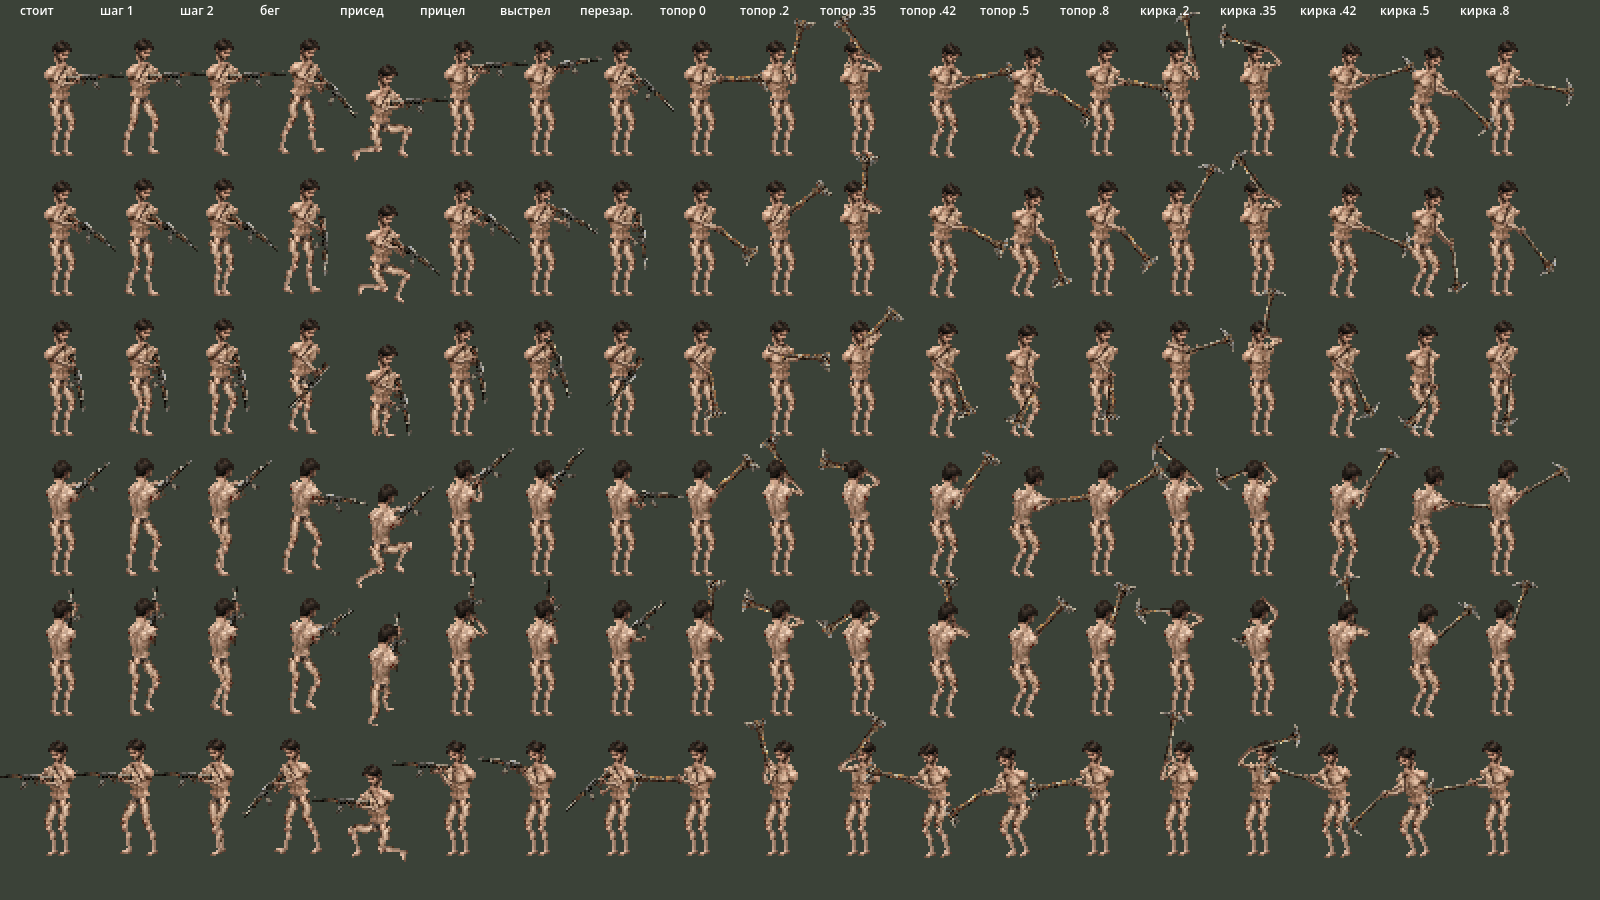
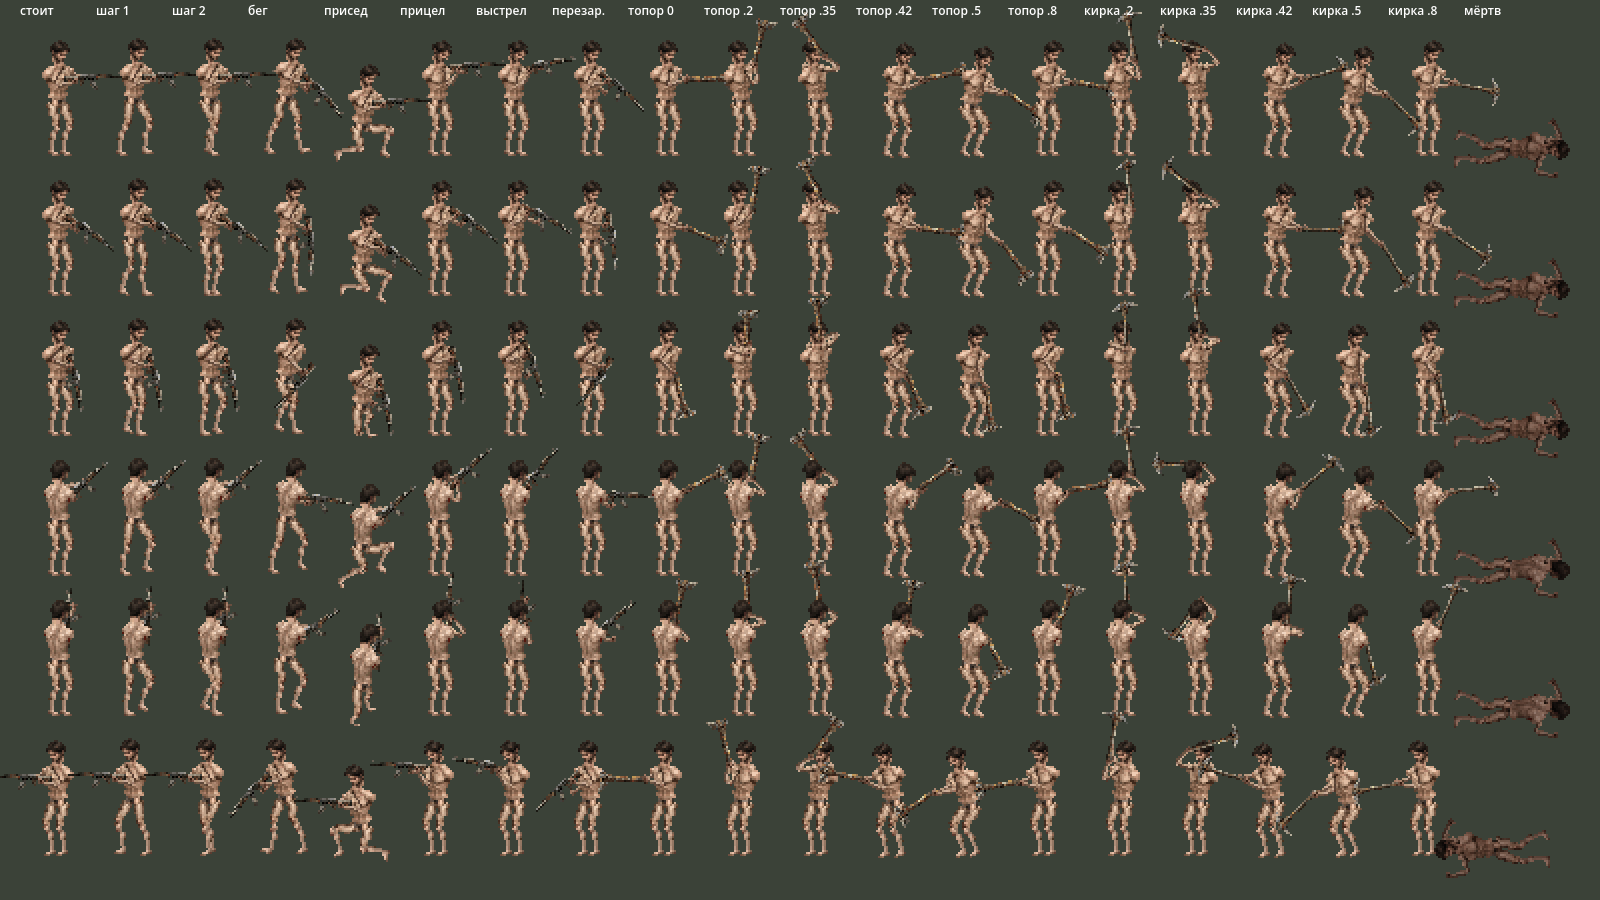
Rig death pose: lying spread-eagle, weapon dropped, centered on death point

Changed region(s): [[0.0, 0.0, 1.0, 0.9644], [0.0938, 0.0, 0.125, 0.0311]]

diff --git a/game/src/Client/Rig.cs b/game/src/Client/Rig.cs
@@ -83,7 +83,8 @@ namespace Rastvordd.Client
         {
             // смерть: лежит на боку
             _sprite.Rotation = dead ? Mathf.Pi / 2 * (Mathf.Cos(S.Aim) >= 0 ? 1 : -1) : 0;
-            _sprite.Position = dead ? new Vector2(0, -6) : _swim ? new Vector2(0, 18) : Vector2.Zero;
+            // мёртв: лежит на боку, тело по центру точки смерти (поворот идёт вокруг стоп)
+            _sprite.Position = dead ? new Vector2(-24 * (Mathf.Cos(S.Aim) >= 0 ? 1 : -1), -4) : _swim ? new Vector2(0, 18) : Vector2.Zero;
             _sprite.Modulate = dead ? new Color(0.6f, 0.55f, 0.55f) : Colors.White;
             _canvas.QueueRedraw();
         }
@@ -181,6 +182,7 @@ namespace Rastvordd.Client
             var fwdG = new Vector2(fwd.X, fwd.Y * 0.5f);   // направление по земле с ракурсным сжатием глубины
             var footFar = Foot(s.Phase + Mathf.Pi, -3) + crouch * (-fwdG * 11);
             var footNear = Foot(s.Phase, 4) + crouch * (fwdG * 7);
+            if (s.Dead) { footFar = new Vector2(-7, -1); footNear = new Vector2(6, 0); }   // мёртв: ноги врозь (спрайт потом кладётся на бок)
             float kneeBend = -1;   // колени сгибаются «вперёд» (к взгляду)
 
             // корпус: наклон вперёд на бегу
@@ -195,6 +197,7 @@ namespace Rastvordd.Client
 
             // ---------- оружие и кисти ----------
             string held = s.Held;
+            if (s.Dead) held = null;   // оружие выпало
             bool hasItem = held != null;
             float len = (hasItem ? HeldLength(held) : 0) * 32f;
             float wAng = aim + s.Recoil * (_mirror ? -1 : 1);
@@ -256,6 +259,7 @@ namespace Rastvordd.Client
             if (s.Reload >= 0 && s.Reload > 0.3f && s.Reload < 0.7f)
                 support = grip + wDir * len * 0.25f + new Vector2(0, 6);     // вторая кисть за магазином
             if (!hasItem) { grip = shNear + new Vector2(1, 12) + fwd * 1.5f; support = shFar + new Vector2(1, 12) - fwd * 1.5f; }
+            if (s.Dead) { grip = shNear + new Vector2(9, -7); support = shFar + new Vector2(-9, -5); }   // руки раскинуты
 
             float lUp = _set.UpperArm.GetWidth() - 1, lFore = _set.ForeArm.GetWidth() - 2;
             var armNear = Ik(shNear, grip, lUp, lFore, 1);

diff --git a/game/src/Client/RigGallery.cs b/game/src/Client/RigGallery.cs
@@ -1,4 +1,4 @@
-using Godot;
+using Godot;
 
 namespace Rastvordd.Client
 {
@@ -8,7 +8,7 @@ namespace Rastvordd.Client
     /// </summary>
     public partial class RigGallery : CanvasLayer
     {
-        const int Scale = 2, CellW = 40, CellH = 70;
+        const int Scale = 2, CellW = 38, CellH = 70;
 
         static readonly (string name, float ang)[] Angles =
         {
@@ -37,6 +37,7 @@ namespace Rastvordd.Client
             ("кирка .42", "tool_pickaxe", s => { s.Swing = 0.42f; }),
             ("кирка .5", "tool_pickaxe", s => { s.Swing = 0.5f; }),
             ("кирка .8", "tool_pickaxe", s => { s.Swing = 0.8f; }),
+            ("мёртв", "weapon_ak", s => { s.Dead = true; }),
         };
 
         public RigGallery(string who)
@@ -63,7 +64,7 @@ namespace Rastvordd.Client
                     s.Aim = Angles[r].ang;
                     s.Held = Columns[c].held;
                     Columns[c].set(s);
-                    rv.Refresh(false);
+                    rv.Refresh(s.Dead);
                 }
         }
     }

diff --git a/docs/night-report.md b/docs/night-report.md
@@ -37,3 +37,4 @@
 4. **Карта 2×2 км** — включать сейчас или после средних/крупных РТ?
 
 ## Мелкие задачи после отчёта (луп)
+- Поза смерти: персонаж лежит на боку, руки и ноги раскинуты, оружие выпало (колонка «мёртв» в docs/rig-gallery.png).
